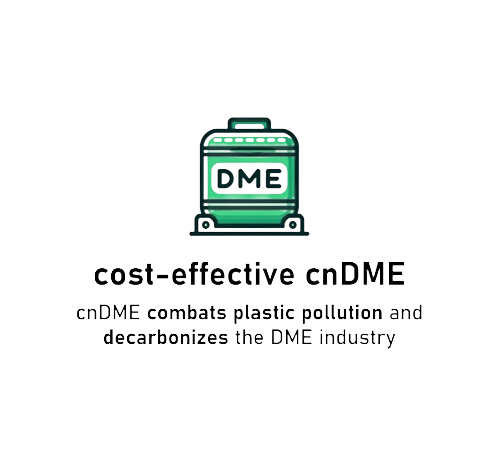
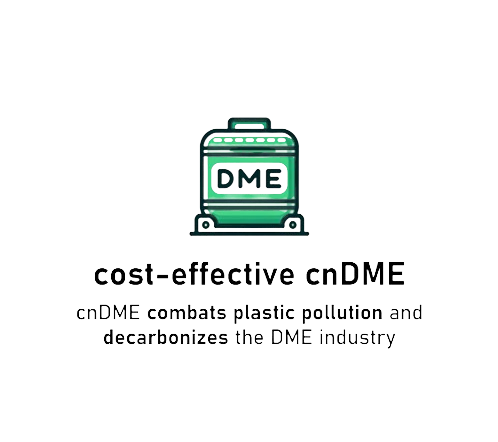
reposition image

Changed region(s): [[0.1506, 0.2353, 0.8735, 0.7941]]

diff --git a/index.html b/index.html
@@ -41,10 +41,12 @@
             <div class="background-image1"></div>
             <p class="custom-p1" id="titletext">Today's Waste</p>
             <section class="image-container hidden">
-                <a href="https://forms.gle/Pd3jUnFzQNdyXqPV9" target="_blank">
+                <a href="technology.html">
                     <img src="images/one.png" alt="Small Image">
                 </a>
-                <img src="images/two.png" alt="Small Image">
+                <a href="technology.html">
+                    <img src="images/two2.png" alt="Small Image" style="margin-top: 15px;">
+                </a>
                 <a href="technology.html">
                     <img src="images/three.png" alt="Small Image">
                 </a>
